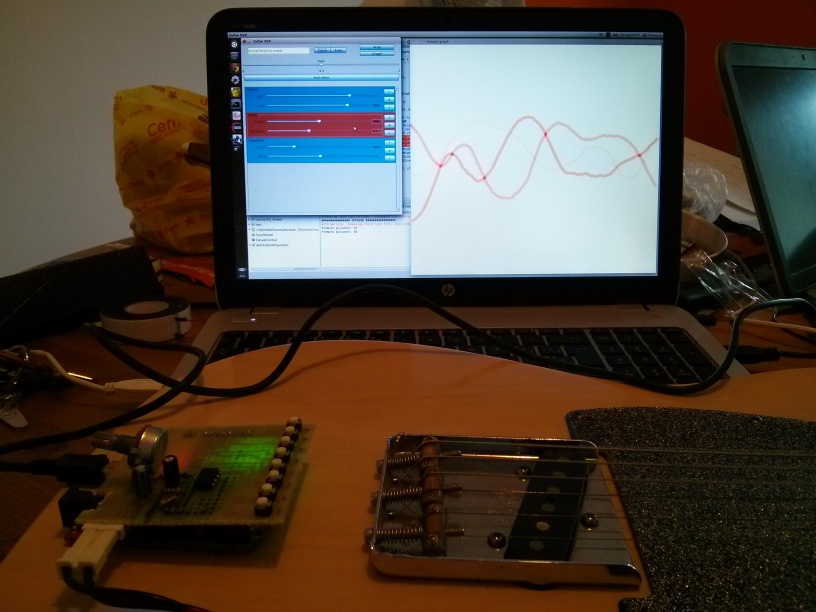
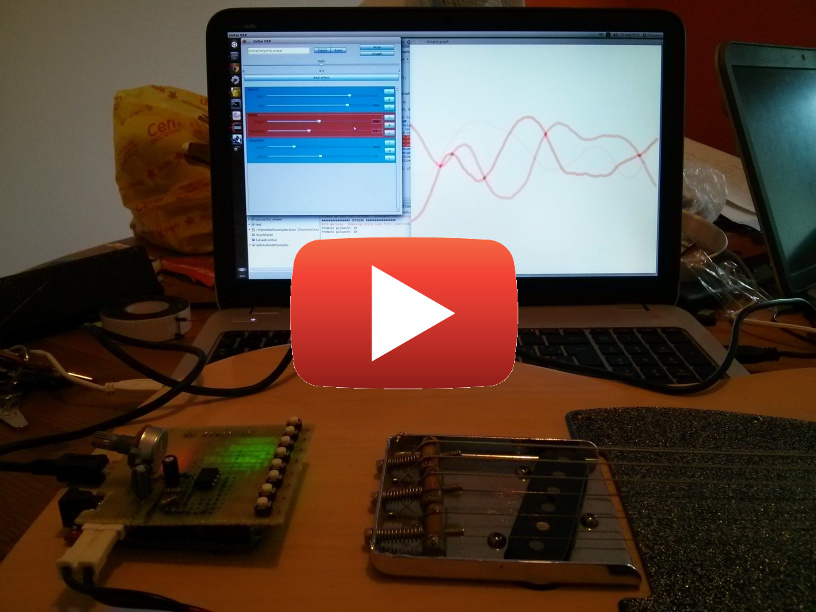
Ultime modifiche

Changed region(s): [[0.337, 0.3725, 0.6434, 0.652]]

diff --git a/report2/report.tex b/report2/report.tex
@@ -33,37 +33,34 @@
 
 \section{Descrizione sintetica dell'idea del progetto}
 
-Lo scorso anno accademico, Francesco (uno dei due autori) ha sviluppato un software denominato GuitarDSP come elaborato del corso di Programmazione ad oggetti \cite{delduchetto2014}. Questo software permette di applicare, dato un file audio, degli effetti ``in cascata'' dando la possibilità all'utente di scegliere:
+Lo scorso anno accademico, Francesco (uno dei due autori) ha sviluppato un software denominato \emph{GuitarDSP} come elaborato del corso di Programmazione ad oggetti \cite{delduchetto2014}. Questo software permette di applicare, dato un file audio, degli effetti ``in cascata'' dando la possibilità all'utente di scegliere:
 \begin{itemize}
-\item Quanti effetti applicare: tramite un'apposita interfaccia grafica è possibile aggiungere/eliminare effetti.
-\item In che ordine applicare gli effetti: c'è chiaramente una grossa differenza tra applicare un delay dopo una distorsione e applicare invece una distorsione ad un segnale che ha delay.
-\item Quali parametri dare a ciascuno degli effetti: ogni effetto espone un'interfaccia che ``istruisce'' la GUI in modo che mostri opportuni slider con i corretti valori minimi e massimi.
+	\item Quanti effetti applicare: tramite un'apposita interfaccia grafica è possibile aggiungere/eliminare effetti.
+	\item In che ordine applicare gli effetti: c'è chiaramente una grossa differenza tra applicare un delay dopo una distorsione e applicare invece una distorsione ad un segnale che ha delay.
+	\item Quali parametri dare a ciascuno degli effetti: ogni effetto espone un'interfaccia che ``istruisce'' la GUI in modo che mostri opportuni slider con i corretti valori minimi e massimi.
 \end{itemize}
 
-Il software GuitarDSP è stato concluso e consegnato con successo. Tuttavia, la praticità del suo utilizzo è stata fin da subito gravemente pregiudicata dalla necessità di avere un file audio piuttosto che una connessione diretta tra la chitarra ed il software.
+Il software GuitarDSP è stato completato e consegnato con successo. Tuttavia, la praticità del suo utilizzo è stata fin da subito gravemente pregiudicata dalla necessità di avere un file audio piuttosto che una connessione diretta tra la chitarra ed il software.
 
-Nella sezione conclusiva della relazione, l'autore di GuitarDSP si proponeva di lavorare ad una ``versione 2.0'' che avrebbe introdotto una modalità di input appositamente studiata per permettere di applicare gli effetti su uno stream ``esterno'' piuttosto che su un file audio. È ora arrivato il momento di implementare questa nuova funzionalità.
+Nella sezione conclusiva della relazione, l'autore di GuitarDSP si proponeva di lavorare ad una versione \emph{2.0} che avrebbe introdotto una modalità di input appositamente studiata per permettere di applicare gli effetti su uno stream esterno piuttosto che su un file audio. È ora arrivato il momento di implementare questa nuova funzionalità.
 
 \subsection{Aspetti salienti relativamente al corso}
-
 Il software GuitarDSP, essendo sviluppato nell'ambito di un corso di programmazione ad oggetti, implicava la trattazione di aspetti relativi alla buona progettazione del software, al riuso dei componenti, e così via. In questo caso invece, per un elaborato di sistemi embedded, gli aspetti salienti trattati sono:
 \begin{itemize}
-\item La conversione analogico-digitale: la chitarra produce in uscita un segnale elettrico analogico, che dobbiamo interpretare misurandone la tensione.
-\item La comunicazione tra Arduino e il PC che elabora gli effetti.
-\item La gestione delle problematiche di un sistema \textit{near real time}.
-\item La codifica e decodifica di unità di informazione (che contengono il sample audio e il pulsante premuto).
+	\item La conversione analogico-digitale: la chitarra produce in uscita un segnale elettrico analogico, che dobbiamo interpretare misurandone la tensione.
+	\item La comunicazione tra Arduino e il PC che elabora gli effetti.
+	\item La gestione delle problematiche di un sistema \textit{near real time}.
+	\item La codifica e decodifica di unità di informazione (che contengono il sample audio e il pulsante premuto).
 \end{itemize}
 
-
 \section{Modello semplificato}
-
 Il modello semplificato del progetto realizzato si può descrivere tramite la seguente illustrazione:
 
 \begin{center}
     \includegraphics[width=0.9\linewidth]{fig1.png}
 \end{center}
 
-Arduino viene usato per interfacciare i dati provenienti dalla chitarra (input0) e dalla pulsantiera (input1) attraverso la porta seriale. L'interfaccia viene poi utilizzata dal software GuitarDSP che elabora l'audio prodotto dalla chitarra applicandogli effetti quali: distortion, reverb, e così via. I dati acquisiti con la pulsantiera vengono utilizzati per decidere quali effetti ``attivare'' o ``disattivare''. Possiamo quindi considerare, nella nostra modellazione, le seguenti entità distinte:\begin{center}
+Arduino viene usato per interfacciare i dati provenienti dalla chitarra su \texttt{input0} e dalla pulsantiera su \texttt{input1} attraverso la porta seriale, \texttt{output0}. L'interfaccia viene poi utilizzata dal software GuitarDSP che elabora l'audio prodotto dalla chitarra applicandogli effetti quali: distortion, reverb, e così via. I dati acquisiti con la pulsantiera vengono utilizzati per decidere quali effetti attivare o disattivare. Possiamo quindi considerare, nella nostra modellazione, le seguenti entità distinte:\begin{center}
     \begin{minipage}[t]{0.4\textwidth}
         \begin{tcolorbox}
         Un'interfaccia su Arduino che raccoglie i dati dai sensori di input, li elabora e comunica tramite la porta seriale.
@@ -80,9 +77,9 @@ Le due entità agiscono autonomamente, ognuna seguendo i propri obiettivi locali
 
 Ciò che stiamo modellando quindi è un sistema multi-agente, composto da due agenti: uno più potente, che si occupa di effettuare i task più dispendiosi a livello di CPU, e l'altro meno potente, che raccoglie i dati dai sensori e li fornisce al primo.
 
-La suddivisione in entità separate rende indipendenti gli agenti coinvolti e permette di estendere il sistema aggiungendone di nuovi senza dover compromettere il funzionamento generale. Ognuno dei due agenti coinvolti non è a conoscenza dei dettagli implementativi e strutturali dell'altro per cui possiamo, ad esempio, sostituire il sottosistema \textsc{Chitarra-Pulsantiera-Arduino} con una tastiera elettronica o un microfono, oppure aggiungere un nuovo algoritmo di elaborazione dell'audio, il tutto senza compromettere la stabilità dell'intero sistema.
+La suddivisione in entità separate rende indipendenti gli agenti coinvolti e permette di estendere il sistema senza dover compromettere il funzionamento generale. Ognuno dei due agenti coinvolti non è a conoscenza dei dettagli implementativi e strutturali dell'altro per cui possiamo, ad esempio, sostituire il sottosistema \textsc{Chitarra-Pulsantiera-Arduino} con una tastiera elettronica o un microfono, oppure aggiungere un nuovo algoritmo di elaborazione dell'audio, il tutto senza compromettere la stabilità dell'intero sistema.
 
-L'unica cosa che vincola il comportamento degli agenti è il protocollo utilizzato per lo scambio di informazioni (ovvero il modo in cui i sottosistemi comunicano); fintantoché viene rispettato il protocollo, essi riusciranno con successo a collaborare al funzionamento globale.
+L'unica cosa che vincola il comportamento degli agenti è il protocollo utilizzato per lo scambio di informazioni, ovvero il modo in cui i sottosistemi comunicano: fintantoché viene rispettato il protocollo, essi riusciranno a collaborare al funzionamento globale.
 
 \subsection{Requisiti e funzionalità}
 I requisiti globali del sistema sono:
@@ -94,6 +91,7 @@ I requisiti globali del sistema sono:
     \item Riuscire a gestire una comunicazione efficiente tra le entità.
 \end{itemize}
 
+\noindent
 Possiamo separare logicamente i requisiti del sistema in due sottosistemi:
 \begin{itemize}
     \item Sottosistema \textsc{Chitarra-Pulsantiera-Arduino}:
@@ -114,7 +112,6 @@ Possiamo separare logicamente i requisiti del sistema in due sottosistemi:
 Tutti questi compiti devono essere svolti in modo da rendere usabile il sistema, quindi la latenza tra il suono prodotto dalla chitarra e quello in uscita dal PC non deve essere percettibile e il suono deve essere fedele e coerente con gli effetti selezionati.
 
 \section{Architettura complessiva del sistema}
-
 L'architettura complessiva del sistema creato si può inquadrare nel \textit{Producer-consumer pattern}. Infatti, il sottosistema \textsc{Chitarra-Pulsantiera-Arduino} è un \textit{producer} dal momento che deve creare dei dati, mentre il sottosistema \textsc{Computer} è un \textit{consumer} ed ha il compito di usare i dati che arrivano.
 
 Dopo aver stabilito come il nostro sistema è architettato e i requisiti che deve rispettare, notiamo che per costruirne uno funzionante dobbiamo prima gestire il problema del produttore/consumatore.
@@ -132,44 +129,47 @@ Dal momento che Arduino risulta essere il collo di bottiglia del sistema, a caus
 La lettura dell'audio in input è una funzione cardine del nostro sistema perciò abbiamo speso molto tempo nel cercare il modo migliore per campionare l'audio (per approfondimenti guardare nella sezione \textbf{Test effettuati e discussione}).
 
 La frequenza di campionamento è il numero di campioni prelevati al secondo e si misura in Hertz (\si{\hertz}).
-La scelta della frequenza di campionamento del segnale audio è un fattore molto importante nella nostra applicazione per ottenere in uscita una buona qualità audio. Considerando che nei CD audio è uguale a \SI{44.1}{\kilo\hertz} mentre nelle linee telefoniche è \SI{8}{\kilo\hertz}, possiamo dire che per noi una frequenza accettabile si aggira tra questi due, avvicinandosi il più possibile alla prima.
+La scelta della frequenza di campionamento del segnale audio è un fattore molto importante nella nostra applicazione per ottenere in uscita una buona qualità audio. Considerando che nei CD audio è pari a \SI{44.1}{\kilo\hertz} mentre nelle linee telefoniche è \SI{8}{\kilo\hertz}, possiamo dire che per noi una frequenza accettabile si aggira tra questi due valori, avvicinandosi il più possibile al primo.
 
-Inizialmente abbiamo provato ad implementare il campionamento audio nel modo più immediato, cioè usando la funzione \texttt{analogRead} fornita dalle librerie di Arduino.
-Abbiamo subito notato che facendo in questo modo dovevamo impostare, quando richiedevamo la linea di output sul PC, un frame rate di circa \SI{5100}{\hertz} per sentire in uscita un suono coerente con quello suonato. Questa frequenza è davvero molto bassa quindi era necessario prendere un'altra direzione.
+Inizialmente abbiamo provato ad implementare il campionamento audio nel modo più immediato, cioè usando la funzione \texttt{analogRead()} fornita dalle librerie di Arduino. Abbiamo subito notato che facendo in questo modo la frequenza ottenuta era molto bassa, quindi era necessario prendere un'altra direzione.
 
-Abbiamo perciò deciso di utilizzare il convertitore digitale analogico (ADC) presente su Arduino. Possiamo impostare l'ADC dicendogli di leggere uno specifico pin analogico (nel nostro caso A0) con una determinata frequenza. Questo è il modo più adatto al nostro scopo dato che dobbiamo leggere continuamente i campioni dal pin A0, non a fronte di uno specifico evento, e nel modo più veloce possibile.
-Come spiegato più avanti nella sezione di test, siamo comunque limitati nella frequenza di campionamento per via del tempo di scrittura del valore sulla seriale e del rumore sul che si verifica quando leggiamo velocemente. La velocità massima che abbiamo ottenuto si aggira intorno ai \SI{14}{\kilo\hertz}, ma comunque non siamo riusciti ad ottenere un suono del tutto primo di interferenze.
+Abbiamo quindi deciso di utilizzare il convertitore digitale analogico (ADC) presente su Arduino. Possiamo impostare l'ADC in modo da fargli leggere uno specifico pin analogico (nel nostro caso \texttt{A0}) con una determinata frequenza. Questo è il modo più adatto al nostro scopo dato che dobbiamo leggere continuamente i campioni dal pin \texttt{A0}, non a fronte di uno specifico evento, e nel modo più veloce possibile.
+
+Come spiegato più avanti nella sezione dei test, siamo comunque limitati nella frequenza di campionamento per via del tempo di scrittura del valore sulla seriale e del rumore sull'input, che si fa sentire quando leggiamo velocemente. La velocità massima che abbiamo ottenuto si aggira intorno ai \SI{14}{\kilo\hertz}, ma comunque non siamo riusciti ad ottenere un suono del tutto privo di interferenze.
 
 \subsection{Applicazione degli effetti e riproduzione dell'audio}
-La parte di elaborazione del suono e riproduzione è stata demandata ad un computer, che a differenza della scheda Arduino Uno riesce a gestire questi compiti più onerosi computazionalmente. L'applicazione originale GuitarDSP è stato modificato affinché fosse in grado di leggere uno stream di byte dalla porta seriale. In oltre è stata implementata la possibilità di spegnimento/accensione degli effetti selezionati utilizzando i pulsanti presenti sulla chitarra. La parte di riproduzione del segnale audio è stata lasciata invariata a parte la scelta della frequenza con cui aprire la linea audio, la quale dovrebbe essere uguale alla frequenza di campionamento.
+La parte di elaborazione del suono e riproduzione è stata demandata ad un computer, che a differenza della scheda Arduino Uno riesce a gestire questo compito computazionalmente oneroso. L'applicazione originale GuitarDSP è stata modificata affinché fosse in grado di leggere uno stream di byte dalla porta seriale. Inoltre è stata implementata la possibilità di spegnimento/accensione degli effetti selezionati utilizzando i pulsanti presenti sulla chitarra. La parte di riproduzione del segnale audio è stata lasciata invariata a parte la scelta della frequenza con cui aprire la linea audio, la quale deve essere uguale alla frequenza di campionamento.
 
 \subsection{Modellazione dei pulsanti}
 L'idea iniziale per la realizzazione della pulsantiera era quella di registrare ciascun pin digitale come interrupt attraverso la chiamata \href{http://www.arduino.cc/en/Reference/AttachInterrupt}{\texttt{attachInterrupt()}}. Questo sarebbe stato possibile se avessimo utilizzato \emph{Arduino Due}, che permette di associare un interrupt a tutti i pin; avendo invece un microcontrollore grossomodo equivalente ad Arduino Uno, avevamo la possibilità di usare la funzione \texttt{attachInterrupt()} su al più due pin.
 
-A causa di questa limitazione, abbiamo dovuto trovare una soluzione diversa. È infatti possibile utilizzare interrupt per il cambio di stato dei pin (su tutti i pin) attraverso le \emph{Pin Change Interrupt Requests}\cite{allinterrupts}.
+A causa di questa limitazione, abbiamo dovuto trovare una soluzione diversa. È possibile utilizzare interrupt per il cambio di stato dei pin (su tutti i pin) attraverso le \emph{Pin Change Interrupt Requests}\cite{allinterrupts}, a patto di avere però due soli interrupt che gestiscono gli \num{8} pulsanti.
 
 \section{Struttura, comportamento ed interazione delle varie parti}
-Per strutturare il nostro sistema abbiamo preso molte informazioni utili dall'instructable \emph{Arduino Audio Input}\cite{arduinoinput}. Nello specifico abbiamo riutilizzato il circuito consigliato dall'autore modificandolo in modo che usi l'alimentazione fornita da Ardunio e non quella di due batterie esterne da \SI{9}{\volt}. In questo modo il circuito, che deve essere montato sulla chitarra, risulta essere più compatto e non dobbiamo preoccuparci di cambiare le batterie quando si scaricano. In oltre dal suddetto instructable abbiamo preso diversi spunti per ottimizzare il campionamento dell'audio.
+Per strutturare il nostro sistema abbiamo attinto a molte informazioni utili dall'instructable \emph{Arduino Audio Input}\cite{arduinoinput}. Nello specifico, abbiamo riutilizzato il circuito consigliato dall'autore modificandolo in modo da usare l'alimentazione fornita da Arduino piuttosto che quella fornita da due batterie esterne da \SI{9}{\volt}. In questo modo il circuito, che deve essere montato sulla chitarra, risulta più compatto e non dobbiamo preoccuparci di cambiare le batterie quando si scaricano. Inoltre nel suddetto instructable abbiamo trovato diversi spunti per ottimizzare il campionamento dell'audio.
 
+\newpage
 \subsection{Diagrammi degli stati}
 \noindent
 Sottosistema \textsc{Chitarra-Pulsantiera-Arduino}:
 
 \vspace{3mm}
 
-\includegraphics[width=\textwidth]{stati1.pdf}
+\fbox{\includegraphics[width=\textwidth]{stati1.pdf}}
+
+\vspace{2mm}
 
 \noindent
 Sottosistema \textsc{Computer}:
 
 \vspace{3mm}
 
-\includegraphics[width=\textwidth]{stati2.pdf}
+\fbox{\includegraphics[width=\textwidth]{stati2.pdf}}
 
 \subsection{Struttura codice Arduino}
 La parte di codice embedded sul microcontrollore non è strutturata in classi perché abbiamo la necessità che essa vada il più veloce possibile. Il loop principale del programma è vuoto e l'esecuzione di codice è scatenata esclusivamente dagli interrupt (\emph{interrupt driven}). Nello specifico, abbiamo:
 \begin{itemize}
-	\item Un interrupt sincrono che viene chiamato dall'ADC non appena è disponibile un nuovo campione da leggere
+	\item Un interrupt sincrono che viene chiamato dall'ADC non appena è disponibile un nuovo campione da leggere. È sincrono dal momento che l'ADC campiona ad una frequenza fissata.
 	\item Un interrupt asincrono che viene invocato a fronte della pressione di uno dei pulsanti \texttt{D0, D1, \dots, D7} sulla scheda.
 	\item Un interrupt asincrono che viene invocato a fronte della pressione di uno dei pulsanti \texttt{D8, D9, \dots, D13} sulla scheda.
 \end{itemize}
@@ -183,21 +183,21 @@ Ricordando che i pin analogici di Arduino permettono di leggere valori di tensio
     \item Il segnale in uscita dalla chitarra non essendo amplificato assume valori di picco dell'ordine dei \SI{200}{\milli\volt}, rendendo difficile ricostruire con precisione il segnale.
 \end{itemize}
 
-Per questi motivi non possiamo collegare direttamente l'uscita della chitarra ad un pin di Arduino ma dobbiamo progettare e costruire un circuito che trasformi il segnale originario in un segnale adeguato per le esigenze del microcontrollore. Il circuito deve quindi traslare il segnale nel range \num{0}-\SI{5}{\volt}, centrandolo in \SI{2.5}{\volt}, e amplificarlo di un fattore circa uguale a \num{10}.
+Non potendo collegare direttamente l'uscita della chitarra ad un pin di Arduino, abbiamo progettato e costruito un circuito che trasforma il segnale originario in un segnale adeguato alle esigenze del microcontrollore. Il circuito trasla il segnale dal range \SI{+-200}{\milli\volt} al range \num{0}-\SI{5}{\volt}, centrandolo in \SI{2.5}{\volt} e amplificandolo di un fattore circa pari a \num{10}.
 
+\newpage
+\subsubsection{Prototipo in Multisim}
 Questo è il circuito che abbiamo progettato su Multisim\footnote{\url{http://www.ni.com/multisim}} prima di cablarlo sulla scheda di prototipazione:
 
 \begin{center}
 \includegraphics[width=0.9\textwidth]{screen.png}
 \end{center}
 
-$V_1$ è un oscilloscopio che simula il suono proveniente dalla chitarra. \texttt{U3A} è un amplificatore operazionale (modello \texttt{TLC2727CP}) collegato in configurazione invertente la cui tensione in uscita sarà: $$V_{\mathrm{out}} = V_2 - \frac{R_2}{R_1} \cdot V_1$$
+$V_1$ è un oscilloscopio che simula il suono proveniente dalla chitarra. \texttt{U3A} è un amplificatore operazionale (modello \texttt{TLC272CP}) collegato in configurazione invertente la cui tensione in uscita sarà: $$V_{\mathrm{out}} = V_2 - \frac{R_2}{R_1} \cdot V_1$$
 
-Le resistenze $R_1$ e $R_2$ quindi servono per regolare il fattore di amplificazione del segnale d'ingresso. Le resistenze $R_3$ ed $R_4$ sono usate invece per fare un partitore di tensione ed ottenere i \SI{2.5}{\volt} per spostare il segnale nel range \num{0}-\SI{5}{\volt}.
+Le resistenze $R_1$ e $R_2$ quindi servono per regolare il fattore di amplificazione del segnale d'ingresso. Le resistenze $R_3$ ed $R_4$ sono usate invece per fare un partitore di tensione ed ottenere i \SI{2.5}{\volt} per spostare il segnale nel range \num{0}-\SI{5}{\volt}. I condensatori sono stati usati per tagliare via le frequenze di rumore dal segnale di input.
 
-I condensatori sono stati usati per tagliare via le frequenze di rumore dal segnale di input.
-
-\vspace{0.2in}
+\newpage
 Nel grafico seguente vediamo in rosso il segnale $V_1$ di input e in blu il segnale di output:
 \vspace{0.1in}
 
@@ -206,29 +206,30 @@ Nel grafico seguente vediamo in rosso il segnale $V_1$ di input e in blu il segn
 \end{center}
 
 \subsection{Comunicazione Arduino-PC}
-La comunicazione tra Arduino e il computer è stato un punto chiave del nostro progetto perché come vedremo la scelta del protocollo di comunicazione influenza molto le performance del sistema.
-
-I dati che il microcontrollore deve mandare al computer sono:
+La comunicazione tra Arduino e il computer è stato un punto chiave del nostro progetto perché come vedremo la scelta del protocollo di comunicazione influenza molto le performance del sistema. I dati che il microcontrollore deve mandare al computer sono:
 \begin{enumerate}
     \item \SI{10}{\bit} di sample (valori tra \num{0} e \num{1024}).
     \item Indice del pulsante premuto (\num{0} per indicare ``nessuno'').
 \end{enumerate}
 
 \subsubsection{Comunicazione senza sincronizzazione}
-Il primo testo effettuato e stato quello di non utilizzare nessun protocollo specifico, o meglio mandare i campioni appena raccolti senza aggiungere alcun dato di sincronizzazione. Chiaramente questo approccio è quello che permette la maggior velocità di comunicazione visto che mandiamo solamente i dati utili senza aggiungere informazioni non necessarie.
+Il primo test effettuato è stato quello di non utilizzare alcun protocollo specifico, ovvero mandare i campioni raccolti senza aggiungere alcun dato di sincronizzazione. Chiaramente questo approccio è quello che permette di raggiungere la maggior velocità di comunicazione visto che mandiamo solamente i dati utili senza aggiungere informazioni non necessarie.
 
-Per scrivere sulla seriale utilizzeremo la funzione \texttt{Serial.write} la quale, a differenza di \texttt{Serial.print}, non codifica il valore in ASCII, cosa che comporterebbe la spedizione di un pacchetto più grande. La funzione \texttt{Serial.write} lavora con risoluzione di \SI{1}{\byte} quindi per scrivere il sample, grande \SI{10}{\bit}, abbiamo bisogno di scrivere \SI{2}{\byte}. Per i pulsanti invece, che sono \num{8}, ci basta \SI{1}{\byte}. In totale dobbiamo scrivere \SI{3}{\byte}.
+Per scrivere sulla seriale utilizzeremo la funzione \texttt{Serial.write} la quale, a differenza di \texttt{Serial.print}, non codifica il valore in ASCII, cosa che comporterebbe la spedizione di un pacchetto più grande.
 
-A questo punto dobbiamo chiederci in che ordine conviene scrivere questi byte, e se è opportuno mandare ogni volta il byte relativo ai pulsanti o solo quando registriamo una pressione. Notiamo che l'ordine con cui spediamo i dati non fa molta differenza, l'importante è che sia ben definito in modo che il computer sappia come interpretare i dati che arrivano. Quindi diciamo che scriviamo prima i due byte del sample (prima il byte più significativo e poi l'altro) ed infine accodiamo il byte dei pulsanti.
+La funzione \texttt{Serial.write} lavora con risoluzione di \SI{1}{\byte} quindi per scrivere il sample, grande \SI{10}{\bit}, abbiamo bisogno di scrivere \SI{2}{\byte}. Per i pulsanti invece, che sono \num{8}, ci basta \SI{1}{\byte}. In totale dobbiamo scrivere \SI{3}{\byte}. Dobbiamo chiederci a questo punto in che ordine conviene scrivere questi byte, e se è opportuno mandare ogni volta il byte relativo ai pulsanti o solo quando registriamo una pressione.
 
-Quest'ultimo byte potremmo mandarlo solo quando serve, però introduciamo una complessità dal lato del PC perché quest'ultimo deve capire quando, dopo i \SI{2}{\byte} del sample, arriva \SI{1}{\byte} relativo ai pulsanti e non il primo byte del sample successivo. Senza aggiungere ulteriori dati di sincronizzazione non c'è modo per il PC di indovinarlo. Per questo motivo, dobbiamo mandare sempre un pacchetto grande \SI{3}{\byte}, il terzo dei quali conterrà il numero del pulsante premuto se ne è stato premuto uno, o un valore stabilito che indica che non c'è alcun dato relativo ai pulsanti.
+Notiamo che l'ordine con cui spediamo i byte non fa molta differenza, l'importante è che sia ben definito in modo che il computer sappia come interpretare i dati che arrivano. Quindi scriviamo prima i due byte del sample (dal più significativo al meno significativo) ed infine accodiamo il byte del pulsante.
+
+L'ultimo byte potremmo decidere di mandarlo solo quando serve, al costo di introdurre una complessità dal lato del PC. Infatti, dopo i \SI{2}{\byte} del sample, c'è da capire se ciò che arriva è \SI{1}{\byte} relativo ai pulsanti oppure il primo byte del prossimo sample. Senza aggiungere ulteriori dati di sincronizzazione non c'è modo per il PC di saperlo. Per questo motivo, dobbiamo mandare sempre un pacchetto grande \SI{3}{\byte}: il terzo byte conterrà il numero del pulsante premuto se ne è stato premuto uno, o un valore stabilito che indica che non c'è alcun dato relativo ai pulsanti.
 
 Questa soluzione, innanzitutto, lascia inutilizzato l'ultimo byte per quasi tutta la comunicazione dato che il segnale della pressione si verifica molto di rado rispetto ai sample che vengono mandati di continuo. Tuttavia la vera criticità di questo protocollo è che manca del tutto la sincronizzazione tra mittente e destinatario: anche assumendo che ogni volta che Arduino avvia la comunicazione il computer sia pronto per leggere (e quindi si sincronizza senza errori usando il primo byte arrivato come primo byte di un pacchetto), non è detto che durante la comunicazione questa sincronizzazione non possa perdersi. Se infatti si verificano delle situazioni impreviste (ad esempio Arduino viene riavviato, il cavo si stacca, e così via) quando viene ristabilita la comunicazione non è detto che il primo byte che arriva sulla porta seriale del computer corrisponda al primo byte di un pacchetto. In situazioni del genere il PC continua a leggere e a fare il suo lavoro ignaro del fatto che i byte che sta usando potrebbero non essere nell'ordine corretto. Per avere un sistema fault-tolerant siamo perciò obbligati ad inserire delle informazioni di sincronizzazione aggiuntive al nostro pacchetto.
 
 \subsubsection{Comunicazione con sincronizzazione}
-Iniziamo con l'analizzare il contenuto dei byte nel nostro pacchetto:
+Iniziamo con l'analizzare il contenuto dei byte nel pacchetto:
 
 \begin{table}[h]
+\centering
 \begin{tabular}{ccc}
 \textsc{high sample}           & \textsc{low sample}           & \textsc{button}                             \\ \hline
 \multicolumn{1}{|c|}{$0\, 0\, 0\, 0\, 0\, 0\, ?\, ? $} & \multicolumn{1}{c|}{$?\,?\,?\,?\,?\,?\,?\,?$} & \multicolumn{1}{c|}{$0\,0\,0\,0\,?\,?\,?\,?$} \\ \hline
@@ -236,11 +237,12 @@ Iniziamo con l'analizzare il contenuto dei byte nel nostro pacchetto:
 \end{tabular}
 \end{table}
 
-I primi 16 bit del pacchetto (che rappresentano il sample) sono composti sempre da 6 zeri seguiti da 10 cifre qualunque. Il terzo byte è invece formato da 4 zeri seguiti da 4 valori qualunque, perché i pulsanti sono 8 e 4 bit bastano per scrivere i numeri da 0 a 8.
+I primi \SI{16}{\bit} del pacchetto, che rappresentano il sample, sono composti sempre da \num{6} zeri seguiti da \num{10} cifre qualunque. Il terzo byte è invece formato da \num{4} zeri seguiti da \num{4} valori qualunque, perché i pulsanti sono \num{8} e \SI{4}{\bit} bastano per scrivere i numeri da \num{0} a \num{8}.
 
-Osservando come è formato il pacchetto notiamo che possiamo eliminare del tutto il terzo byte, inserendo i 4 bit utili per l'informazione nello spazio libero del primo byte.
+Osservando come è formato il pacchetto notiamo che possiamo eliminare del tutto il terzo byte, inserendo i \SI{4}{\bit} utili per l'informazione nello spazio libero del primo byte:
 
 \begin{table}[h]
+\centering
 \begin{tabular}{cc}
 \textsc{{\color[HTML]{FE0000}button} + high sample}           & \textsc{low sample}       \\ \hline
 \multicolumn{1}{|c|}{${\color[HTML]{FE0000}?\,?\,?\,?}\, 0\, 0\, ?\, ? $} & \multicolumn{1}{c|}{$?\,?\,?\,?\,?\,?\,?\,?$} \\ \hline
@@ -248,47 +250,48 @@ Osservando come è formato il pacchetto notiamo che possiamo eliminare del tutto
 \end{tabular}
 \end{table}
 
+\noindent
 Questo ci permette, come vedremo in seguito, di poter campionare ad una frequenza maggiore.
-\vspace{0.2in}
+\vspace{3mm}
 
 Per quanto riguarda la sincronizzazione dobbiamo inserire in testa al nostro pacchetto dei bit aggiuntivi che siano univoci all'interno dello stesso, in modo che il ricevente sappia stabilire con certezza, per ogni pacchetto ricevuto, quale sia il primo byte e quale il secondo.
-Osservando il contenuto del pacchetto possiamo dire che nel primo byte non potremmo mai ottenere il valore 255 (11111111b) dato che ci sono due bit sempre a 0, il secondo byte invece può contenere qualunque valore. A causa del secondo byte dobbiamo inserire due byte di sincronizzazione perché se ne mettessimo uno potrebbe accadere che il secondo byte (del sample) venga scambiato per esso.
-Quindi inseriamo, in testa al pacchetto originario, due byte di sincronizzazione entrambi con valore 255.
+
+Osservando il contenuto del pacchetto possiamo dire che nel primo byte non potremmo mai ottenere il valore \num{255} (\texttt{11111111} in binario) dato che ci sono \SI{2}{\bit} sempre a \num{0}, il secondo byte invece può contenere qualunque valore.
+
+È necessario inserire \SI{2}{\byte} di sincronizzazione, perché se ne mettessimo solo uno potrebbe accadere che il secondo byte del sample venga scambiato, appunto, per uno dei byte di sincronizzazione. Quindi inseriamo, in testa al pacchetto originario, due byte di sincronizzazione con valore \num{255}.
 
 \begin{table}[h]
+\centering
 \begin{tabular}{cccc}
 \textsc{\color[HTML]{FE0000}sync} & \textsc{\color[HTML]{FE0000}sync} & \textsc{button + high sample} & \textsc{low sample}       \\ \hline
 \multicolumn{1}{|c|}{\color[HTML]{FE0000}$1\,1\,1\,1\, 1\, 1\, 1\, 1 $} &\multicolumn{1}{|c|}{\color[HTML]{FE0000}$1\,1\,1\,1\, 1\, 1\, 1\, 1 $} &\multicolumn{1}{|c|}{${?\,?\,?\,?}\, 0\, 0\, ?\, ? $} & \multicolumn{1}{c|}{$?\,?\,?\,?\,?\,?\,?\,?$} \\ \hline
-\multicolumn{2}{c}{} & \multicolumn{2}{c}{$? \in \{0, 1\}$}
+\multicolumn{4}{c}{$? \in \{0, 1\}$}
 \end{tabular}
 \end{table}
 
-Ora da PC siamo sicuri che appena leggiamo due volte 255 seguito da un altro valore, diverso da 255, quest'ultimo è il primo byte del nostro pacchetto originario.
+Ora, dal lato PC, siamo sicuri che non appena leggiamo due volte \num{255} seguito da un altro valore (diverso da \num{255}), quest'ultimo è il primo byte del nostro pacchetto originario.
 
 \section{Test effettuati, dati e discussione}
 
-\subsection{Frequenza campionamento}
-Notare che nel nostro progetto il frame rate che utilizziamo per aprire una linea audio di output è la stessa frequenza di campionamento con cui prendiamo il segnale della chitarra con Arduino, se così non fosse il suono che ne verrebbe fuori, senza applicare nessun effetto, non sarebbe uguale a quello suonato. Per questo motivo è stato importante per noi riuscire a fare una stima abbastanza precisa della frequenza con cui prendiamo l'audio.
+\subsection{Frequenza di campionamento}
+Nel nostro progetto il \emph{frame rate} utilizzato per aprire una linea audio di output è pari alla frequenza di campionamento con cui prendiamo il segnale della chitarra con Arduino: se così non fosse, il suono che ne verrebbe fuori non sarebbe uguale a quello suonato. Per questo motivo è stato importante per noi riuscire a fare una stima abbastanza precisa della frequenza con cui prendiamo l'audio.
 
-\subsubsection{Test con analogRead}
-
-Facendo un po' di prove abbiamo visto che per leggere un campione, utilizzando \texttt{analogRead}, impieghiamo circa \SI{108}{\micro\second} mentre servono \SI{76}{\micro\second} per scrivere sulla linea seriale un pacchetto di \SI{32}{\bit}.
+\subsubsection{Test con \texttt{analogRead()}}
+Facendo un po' di prove abbiamo visto che per leggere un campione, utilizzando \texttt{analogRead()}, impieghiamo circa \SI{108}{\micro\second} mentre servono \SI{76}{\micro\second} per scrivere sulla linea seriale un pacchetto di \SI{32}{\bit}.
 
 \source{cpp}{write_speed_rel}
 
-\textit{Con questo sketch abbiamo calcolato il tempo che Arduino impiega per scrivere un pacchetto sulla seriale utilizzando la funzione \texttt{Serial.write}. La funzione \texttt{micros} ritorna il tempo passato dall'avvio di Arduino in microsecondi, con una precisione di 4 microsecondi.}
-\vspace{0.2in}
+\textit{Con questo sketch abbiamo calcolato il tempo che Arduino impiega per scrivere un pacchetto sulla seriale utilizzando la funzione \texttt{Serial.write}. La funzione \texttt{micros()} ritorna il tempo passato dall'avvio di Arduino in microsecondi, con una precisione di \SI{4}{\micro\second}.}
 
-In totale quindi, per leggere dal pin \texttt{A0} e scrivere sulla seriale impieghiamo circa \SI{184}{\micro\second}.
-Il processore di Arduino lavora ad una frequenza di \SI{16}{\mega\hertz} (ovvero \num{16e6} cicli al secondo), quindi in \SI{1}{\micro\second} (\SI{e-6}{\second}) esegue \num{16} cicli. Allora il nostro ciclo di campionamento impiega $\num{16 x 184} = \num{2944}$ cicli del processore.
+\vspace{3mm}
 
-Questo vuol dire che la frequenza massima che possiamo ottenere in questo modo è $\num[quotient-mode = fraction]{16e6 / 2944} = \SI{5434}{\hertz}$, che coincide circa con il valore del frame rate che avevamo trovato empiricamente.
-Chiaramente \SI{5}{\kilo\hertz} non sono accettabili per i nostri requisiti, essendo addirittura peggiore della qualità audio telefonica, quindi dobbiamo prendere un'altra strada.
+In totale quindi, per leggere dal pin \texttt{A0} e scrivere sulla seriale impieghiamo circa \SI{184}{\micro\second}. Il processore di Arduino lavora ad una frequenza di \SI{16}{\mega\hertz} (ovvero \num{16e6} cicli al secondo), quindi in \SI{1}{\micro\second} (\SI{e-6}{\second}) esegue \num{16} cicli. Allora il nostro ciclo di campionamento richiede $\num{16 x 184} = \num{2944}$ cicli del processore.
+
+Questo vuol dire che la frequenza massima che possiamo ottenere in questo modo è $\num[quotient-mode = fraction]{16e6 / 2944} = \SI{5434}{\hertz}$, che coincide circa con il valore del frame rate che avevamo trovato empiricamente. Chiaramente una frequenza di \SI{5}{\kilo\hertz} non è accettabile per i nostri requisiti, essendo addirittura più bassa di quella impiegata nelle linee telefoniche. Dobbiamo prendere un'altra strada.
 
 \subsubsection{Test con l'ADC}
-Con Arduino abbiamo la possibilità di sfruttare il convertitore analogico-digitale integrato nella scheda, controllandolo a basso livello.
+Con Arduino abbiamo la possibilità di sfruttare il convertitore analogico-digitale integrato nella scheda, controllandolo a basso livello. Il seguente codice attiva l'ADC:
 
-Il seguente codice attiva l'ADC:
 \source{cpp}{adc_setup_rel}
 
 Alla riga \texttt{12} impostiamo il prescaler per la frequenza di campionamento. Il prescaler è un fattore di divisione che va applicato alla frequenza del processore (\SI{16}{\mega\hertz}), e serve per limitare la velocità con cui l'ADC deve lavorare.
@@ -297,39 +300,42 @@ La seguente tabella mostra i valori che possiamo scegliere con le relative frequ
 
 \begin{table}[h]
 \centering
-\begin{tabular}{|l|l|l|}
-\hline
-\textbf{prescaler} & \textbf{frequenza} & \textbf{periodo} \\ \hline \hline
-2 & $\SI{8}{\mega\hertz} / 13 \simeq \SI{615.38}{\kilo\hertz}$ & $\SI{1.62}{\micro\second}$\\ \hline
-4 & $\SI{4}{\mega\hertz} / 13 \simeq \SI{307.69}{\kilo\hertz}$ & $\SI{3.25}{\micro\second}$\\ \hline
-8 & $\SI{2}{\mega\hertz} / 13 \simeq \SI{153.84}{\kilo\hertz}$ & $\SI{6.5}{\micro\second}$\\ \hline
-16 & $\SI{1}{\mega\hertz} / 13 \simeq \SI{76.92}{\kilo\hertz}$ & $\SI{13}{\micro\second}$\\ \hline
-32 & $\SI{500}{\kilo\hertz} / 13 \simeq \SI{38.46}{\kilo\hertz}$ & $\SI{26}{\micro\second}$\\ \hline
-64 & $\SI{250}{\kilo\hertz} / 13 \simeq \SI{19.23}{\kilo\hertz}$ & $\SI{52}{\micro\second}$\\ \hline
-128 & $\SI{125}{\kilo\hertz} / 13 \simeq \SI{9.61}{\kilo\hertz}$ & $\SI{104}{\micro\second}$\\  \hline
+\begin{tabular}{lll}
+\textbf{prescaler} & \textbf{frequenza}                                        & \textbf{periodo}         \\ \hline
+2                    & $\SI{8}{\mega\hertz} / 13 \simeq \SI{615.38}{\kilo\hertz}$  & $\SI{1.62}{\micro\second}$ \\
+4                    & $\SI{4}{\mega\hertz} / 13 \simeq \SI{307.69}{\kilo\hertz}$  & $\SI{3.25}{\micro\second}$ \\
+8                    & $\SI{2}{\mega\hertz} / 13 \simeq \SI{153.84}{\kilo\hertz}$  & $\SI{6.5}{\micro\second}$  \\
+16                   & $\SI{1}{\mega\hertz} / 13 \simeq \SI{76.92}{\kilo\hertz}$   & $\SI{13}{\micro\second}$   \\
+32                   & $\SI{500}{\kilo\hertz} / 13 \simeq \SI{38.46}{\kilo\hertz}$ & $\SI{26}{\micro\second}$   \\
+64                   & $\SI{250}{\kilo\hertz} / 13 \simeq \SI{19.23}{\kilo\hertz}$ & $\SI{52}{\micro\second}$   \\
+128                  & $\SI{125}{\kilo\hertz} / 13 \simeq \SI{9.61}{\kilo\hertz}$  & $\SI{104}{\micro\second}$
 \end{tabular}
 \end{table}
 
-Il valore \num{13} che divide ulteriormente la frequenza è il numero di cicli di clock dell'ADC che il convertitore impiega per leggere un nuovo valore.
+Il valore \num{13} che divide ulteriormente la frequenza è dato dal numero di cicli di clock dell'ADC che il convertitore impiega per leggere un nuovo valore.
 
-Osserviamo che riusciamo ad ottenere frequenze molto alte, anche molto più di quello di cui abbiamo bisogno. Questo risultato ci potrebbe portare a scegliere il valore minimo per il prescaler al fine di ottenere una qualità altissima dell'audio. Purtroppo non è tutt'oro quel che luccica perché dobbiamo considerare che aumentando la frequenza cresce il ``rumore'' nei valori letti sul pin e quindi invece di migliorare la qualità del suono la peggioreremmo. In ogni caso a noi va più che bene un prescaler uguale a \num{32} che ci da una qualità molto vicina a quella dei CD audio.
+Intuitivamente, ci sembra di riuscire ad ottenere in questo modo frequenze molto alte, anche molto più di quelle di cui abbiamo bisogno. Questo potrebbe portarci a scegliere il valore minimo per il prescaler al fine di ottenere una alta qualità audio. Purtroppo però dobbiamo considerare che, aumentando la frequenza, cresce il rumore nei valori letti sul pin e quindi invece di migliorare la qualità del suono la peggioriamo. In ogni caso a noi va più che bene un prescaler uguale a \num{32} che ci da una qualità molto vicina a quella dei CD audio.
 
-Ora dobbiamo però tener conto di un altro fattore che potrebbe limitare la nostra velocità di campionamento: la comunicazione seriale.
-Come detto in precedenza i dati raccolti con Arduino devono essere spediti al computer tramite il cavo seriale, quindi se non riusciamo a mandare in tempo tutti i dati che leggiamo siamo comunque costretti ad abbassare la frequenza dell'ADC.
+Ora dobbiamo tenere conto di un altro fattore che potrebbe limitare la velocità di campionamento: la comunicazione seriale. Come detto in precedenza, i dati raccolti con Arduino devono essere spediti al computer tramite il cavo seriale: se non riusciamo a mandare in tempo tutti i dati che leggiamo siamo costretti ad abbassare la frequenza dell'ADC.
 
-Nelle riga \texttt{14} del codice attiviamo l'interrupt handler del convertitore, questo vuol dire che ogni appena il convertitore avrà finito di leggere un valore chiamerà una funzione che possiamo definire noi. Il codice che inseriremo nella funzione sarà eseguito in sezione critica perciò dobbiamo stare attenti a non inserire cicli molto lunghi e computazioni pesanti in termini di CPU.
+Nelle riga \texttt{14} del codice attiviamo l'interrupt handler del convertitore, questo vuol dire che non appena il convertitore avrà finito di leggere un valore chiamerà una funzione che possiamo definire. Il codice che inseriremo nella funzione sarà eseguito in sezione critica perciò dobbiamo stare attenti a non inserire cicli molto lunghi e computazioni CPU-intensive.
 
-La macro \texttt{ISR} marca la funzione come interrupt handler, in questo caso (\texttt{ADC\_vect}) per l'avvenuta lettura del valore da parte dell'ADC.
+La macro \texttt{ISR} marca la funzione come interrupt handler, in questo caso (\texttt{ADC\_vect}) come handler dell'avvenuta conversione del valore da parte dell'ADC.
 
 \source{cpp}{adc_interrupt_rel}
 
-Nella funzione noi leggiamo i valori che sono stati campionati dai registri \texttt{ADCL} e \texttt{ADCH}, li inseriamo nel pacchetto e poi li scriviamo sulla seriale. Assumendo che l'operazione più costosa sia la scrittura sulla porta seriale calcoliamo quanto costa scrivere un pacchetto di 4 byte e consideriamo tale valore come lower bound per il costo del nostro interrupt handler.
+Nella funzione leggiamo i valori che sono stati campionati dai registri \texttt{ADCL} e \texttt{ADCH}, li inseriamo nel pacchetto e poi li scriviamo sulla seriale. Assumendo che l'operazione più costosa sia la scrittura sulla porta seriale calcoliamo quanto costa scrivere un pacchetto di \SI{4}{\byte} e consideriamo tale valore come lower bound per il costo del nostro interrupt handler.
 
-Il costo per scrivere un pacchetto di 4 byte, che avevamo trovato nel paragrafo precedente, è in media \SI{76}{\micro\second}. Riguardando la tabella nella pagina precedente leggiamo che campionando a \SI{19.23}{\kilo\hertz} l'ADC legge un nuovo sample ogni \SI{52}{\micro\second}. Impostando perciò un prescaler minore di 128 l'ADC non riuscirà a leggere ogni volta che gli tocca perché, ricordando che l'interrupt handler esegue in sezione critica, l'handler di gestione dura di più del tempo di attesa tra la lettura di un campione e l'altro ed accadrà che a volte questo metterà in attesa l'ADC che vuole leggere un nuovo sample.
-Questo risultato stronca le nostre speranze sul fatto di ottenere una qualità audio vicina a quella dei CD e ci dice che possiamo ottenere una frequenza che si aggira tra i \SI{19.23}{\kilo\hertz} e i \SI{9.61}{\kilo\hertz}. Empiricamente abbiamo trovato \SI{14.1}{\kilo\hertz} circa.
+Il costo per scrivere un pacchetto di \SI{4}{\byte}, che avevamo trovato nel paragrafo precedente, è in media \SI{76}{\micro\second}. Facendo riferimento alla tabella delle frequenze del prescaler, notiamo che (campionando a \SI{19.23}{\kilo\hertz}) l'ADC legge un nuovo sample ogni \SI{52}{\micro\second}.
 
-\vspace{0.2in}
-Si potrebbe pensare di lasciare nell'interrupt handler solamente il salvataggio nel pacchetto dei valori letti e scrivere sulla seriale nel loop principale. Questo sicuramente permetterà all'ADC di campionare alla frequenza con cui dovrebbe però noi comunque non riusciremmo a mandare sulla seriale tutti i sample letti, per via del tempo necessario alla scrittura. Anzi peggioreremmo la situazione perché dato che l'interrupt handler ha priorità maggiore rispetto a quella del loop, prenderà sempre il controllo mentre il loop sta eseguendo facendo saltare molti campioni. Facendo una prova abbiamo rilevato una frequenza di campionamento di circa \SI{9}{\kilo\hertz}.
+Se impostassimo un prescaler minore di \num{128}, il risultato che otterremmo sarebbe quello di avere un handler che impiega più del tempo di attesa tra la lettura di un campione e l'altro (e ciò può mettere in attesa l'ADC che vuole leggere un nuovo sample). L'ADC, quindi, non riuscirebbe a leggere ogni volta che gli tocca (ricordiamo che la gestione dell'interrupt avviene in sezione critica).
+
+Questo risultato stronca le nostre speranze sul fatto di ottenere una qualità audio vicina a quella dei CD e ci dice che possiamo ottenere una frequenza che si aggira tra i \SI{19.23}{\kilo\hertz} e i \SI{9.61}{\kilo\hertz}. Empiricamente, abbiamo trovato circa \SI{14.1}{\kilo\hertz}.
+
+\subsubsection{Frame drop}
+Volendo, si potrebbe pensare di lasciare nell'interrupt handler solamente il salvataggio nel pacchetto dei valori letti e demandare la scrittura sulla seriale al loop principale. Questo sicuramente permetterebbe all'ADC di campionare alla frequenza giusta, però il loop principale comunque non riuscirebbe a mandare sulla seriale \emph{tutti} i sample letti, per via del tempo necessario alla scrittura. Questo porterebbe al drop di diversi frame.
+
+Possiamo notare inoltre che la situazione peggiorerebbe a causa del fatto che l'interrupt handler ha priorità maggiore del loop: prenderà quindi spesso il controllo durante l'esecuzione del loop stesso. Facendo una prova abbiamo rilevato una frequenza di circa \SI{9}{\kilo\hertz}.
 
 \section{Documentazione fotografica dei passaggi svolti}
 \includegraphics[width=\textwidth]{foto_1.jpg}
@@ -340,18 +346,20 @@ Si potrebbe pensare di lasciare nell'interrupt handler solamente il salvataggio 
 \includegraphics[width=\textwidth]{foto_6.jpg}
 
 \subsection{Video dimostrativo dell'utilizzo del software}
-\includegraphics[width=\textwidth]{foto_7.jpg}
+\href{https://www.youtube.com/watch?v=IA0InBlP8UQ}{\includegraphics[width=\textwidth]{foto_7.jpg}}
+\url{https://www.youtube.com/watch?v=IA0InBlP8UQ}
 
 \section{Conclusioni}
-Possiamo concludere dicendo che la scheda Arduino Uno, o un suo equivalente, non è adatta per modellare il tipo di applicazione che ci eravamo preposti. Principalmente per due motivi:
+Possiamo concludere dicendo che la scheda Arduino Uno, o un suo equivalente, non è adatta per modellare il tipo di applicazione che ci eravamo proposti. Principalmente per due motivi:
 \begin{enumerate}
-	\item le caratteristiche fisiche e strutturali del microcontrollore non permettono di leggere da un pin analogico ad un'alta frequenza senza generate rumore sul segnale letto.
-	\item la frequenza relativamente bassa del processore non permette di sfruttare a pieno la velocità del protocollo usb per la comunicazione, limitando pesantemente la velocità di comunicazione.
+	\item Le caratteristiche fisiche e strutturali del microcontrollore non permettono di leggere da un pin analogico ad un'alta frequenza senza generare rumore sul segnale letto.
+	\item La frequenza relativamente bassa del processore non permette di sfruttare a pieno la velocità massima della porta seriale, limitando sensibilmente la velocità di comunicazione.
 \end{enumerate}
 
-Probabilmente utilizzando un microcontrollore con una CPU più potente e migliori caratteristiche fisiche saremmo riusciti ad ottenere un sistema che rispettasse i nostri requisiti di funzionalità. 
+Probabilmente utilizzando un microcontrollore con una CPU più potente e migliori caratteristiche fisiche saremmo riusciti ad ottenere un sistema più conforme ai nostri requisiti.
 
-Impiegando invece un microcomputer, come Raspberry PI, avremmo potuto tentare di gestire tutte le funzioni di lettura, elaborazione e riproduzione del suono nel sistema embedded, tagliando quindi via la necessità di comunicare i dati ad un elaboratore esterno ed ottenendo un sistema totalmente autonomo.
+Impiegando invece un microcomputer, come \emph{Raspberry Pi}, avremmo potuto gestire tutte le funzioni di lettura, elaborazione e riproduzione del suono nello stesso sistema embedded, tagliando quindi via la necessità di comunicare i dati ad un elaboratore esterno ed ottenendo un sistema totalmente autonomo.
+
 \begin{thebibliography}{9}
 
 \bibitem{delduchetto2014}
